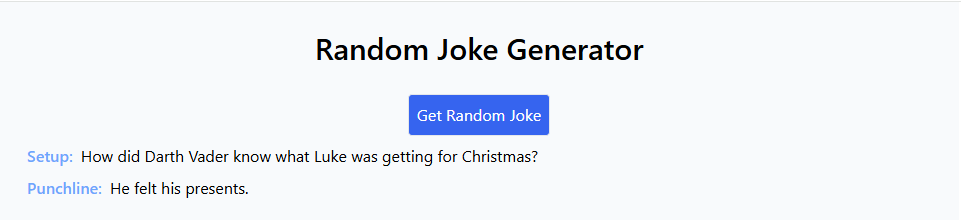
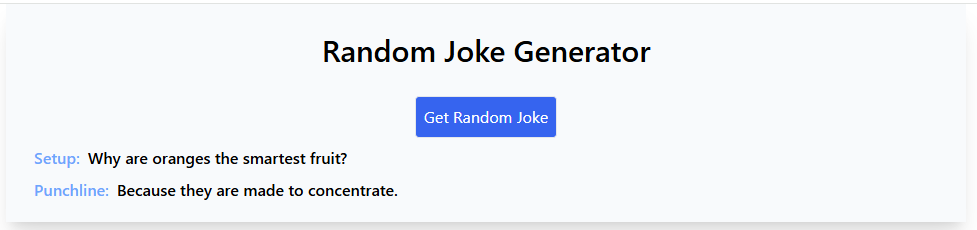
image changed

diff --git a/src/app/random-joke-gen-10/random-joke-gen-10.component.html b/src/app/random-joke-gen-10/random-joke-gen-10.component.html
@@ -1,4 +1,4 @@
-<div class="flex flex-col w-1/2 bg-slate-50 mx-auto p-5 min-h-1/2">
+<div class="flex flex-col w-1/2 bg-slate-50 mx-auto p-5 min-h-1/2 shadow-xl">
   <h3 class="text-3xl font-semibold text-center mx-auto p-2 mb-5">
     Random Joke Generator
   </h3>
@@ -15,11 +15,11 @@
 
   <div class="pt-2">
     <span class="pl-2 pr-2 text-blue-400 font-semibold">Setup:</span
-    ><span>{{ randomJoke.setup }}</span>
+    ><span class="font-semibold">{{ randomJoke.setup }}</span>
   </div>
   <div class="pt-2">
     <span class="pl-2 pr-2 text-blue-400 font-semibold">Punchline:</span
-    ><span>{{ randomJoke.punchline }}</span>
+    ><span class="font-semibold">{{ randomJoke.punchline }}</span>
   </div>
 
   } @if(showError) {
